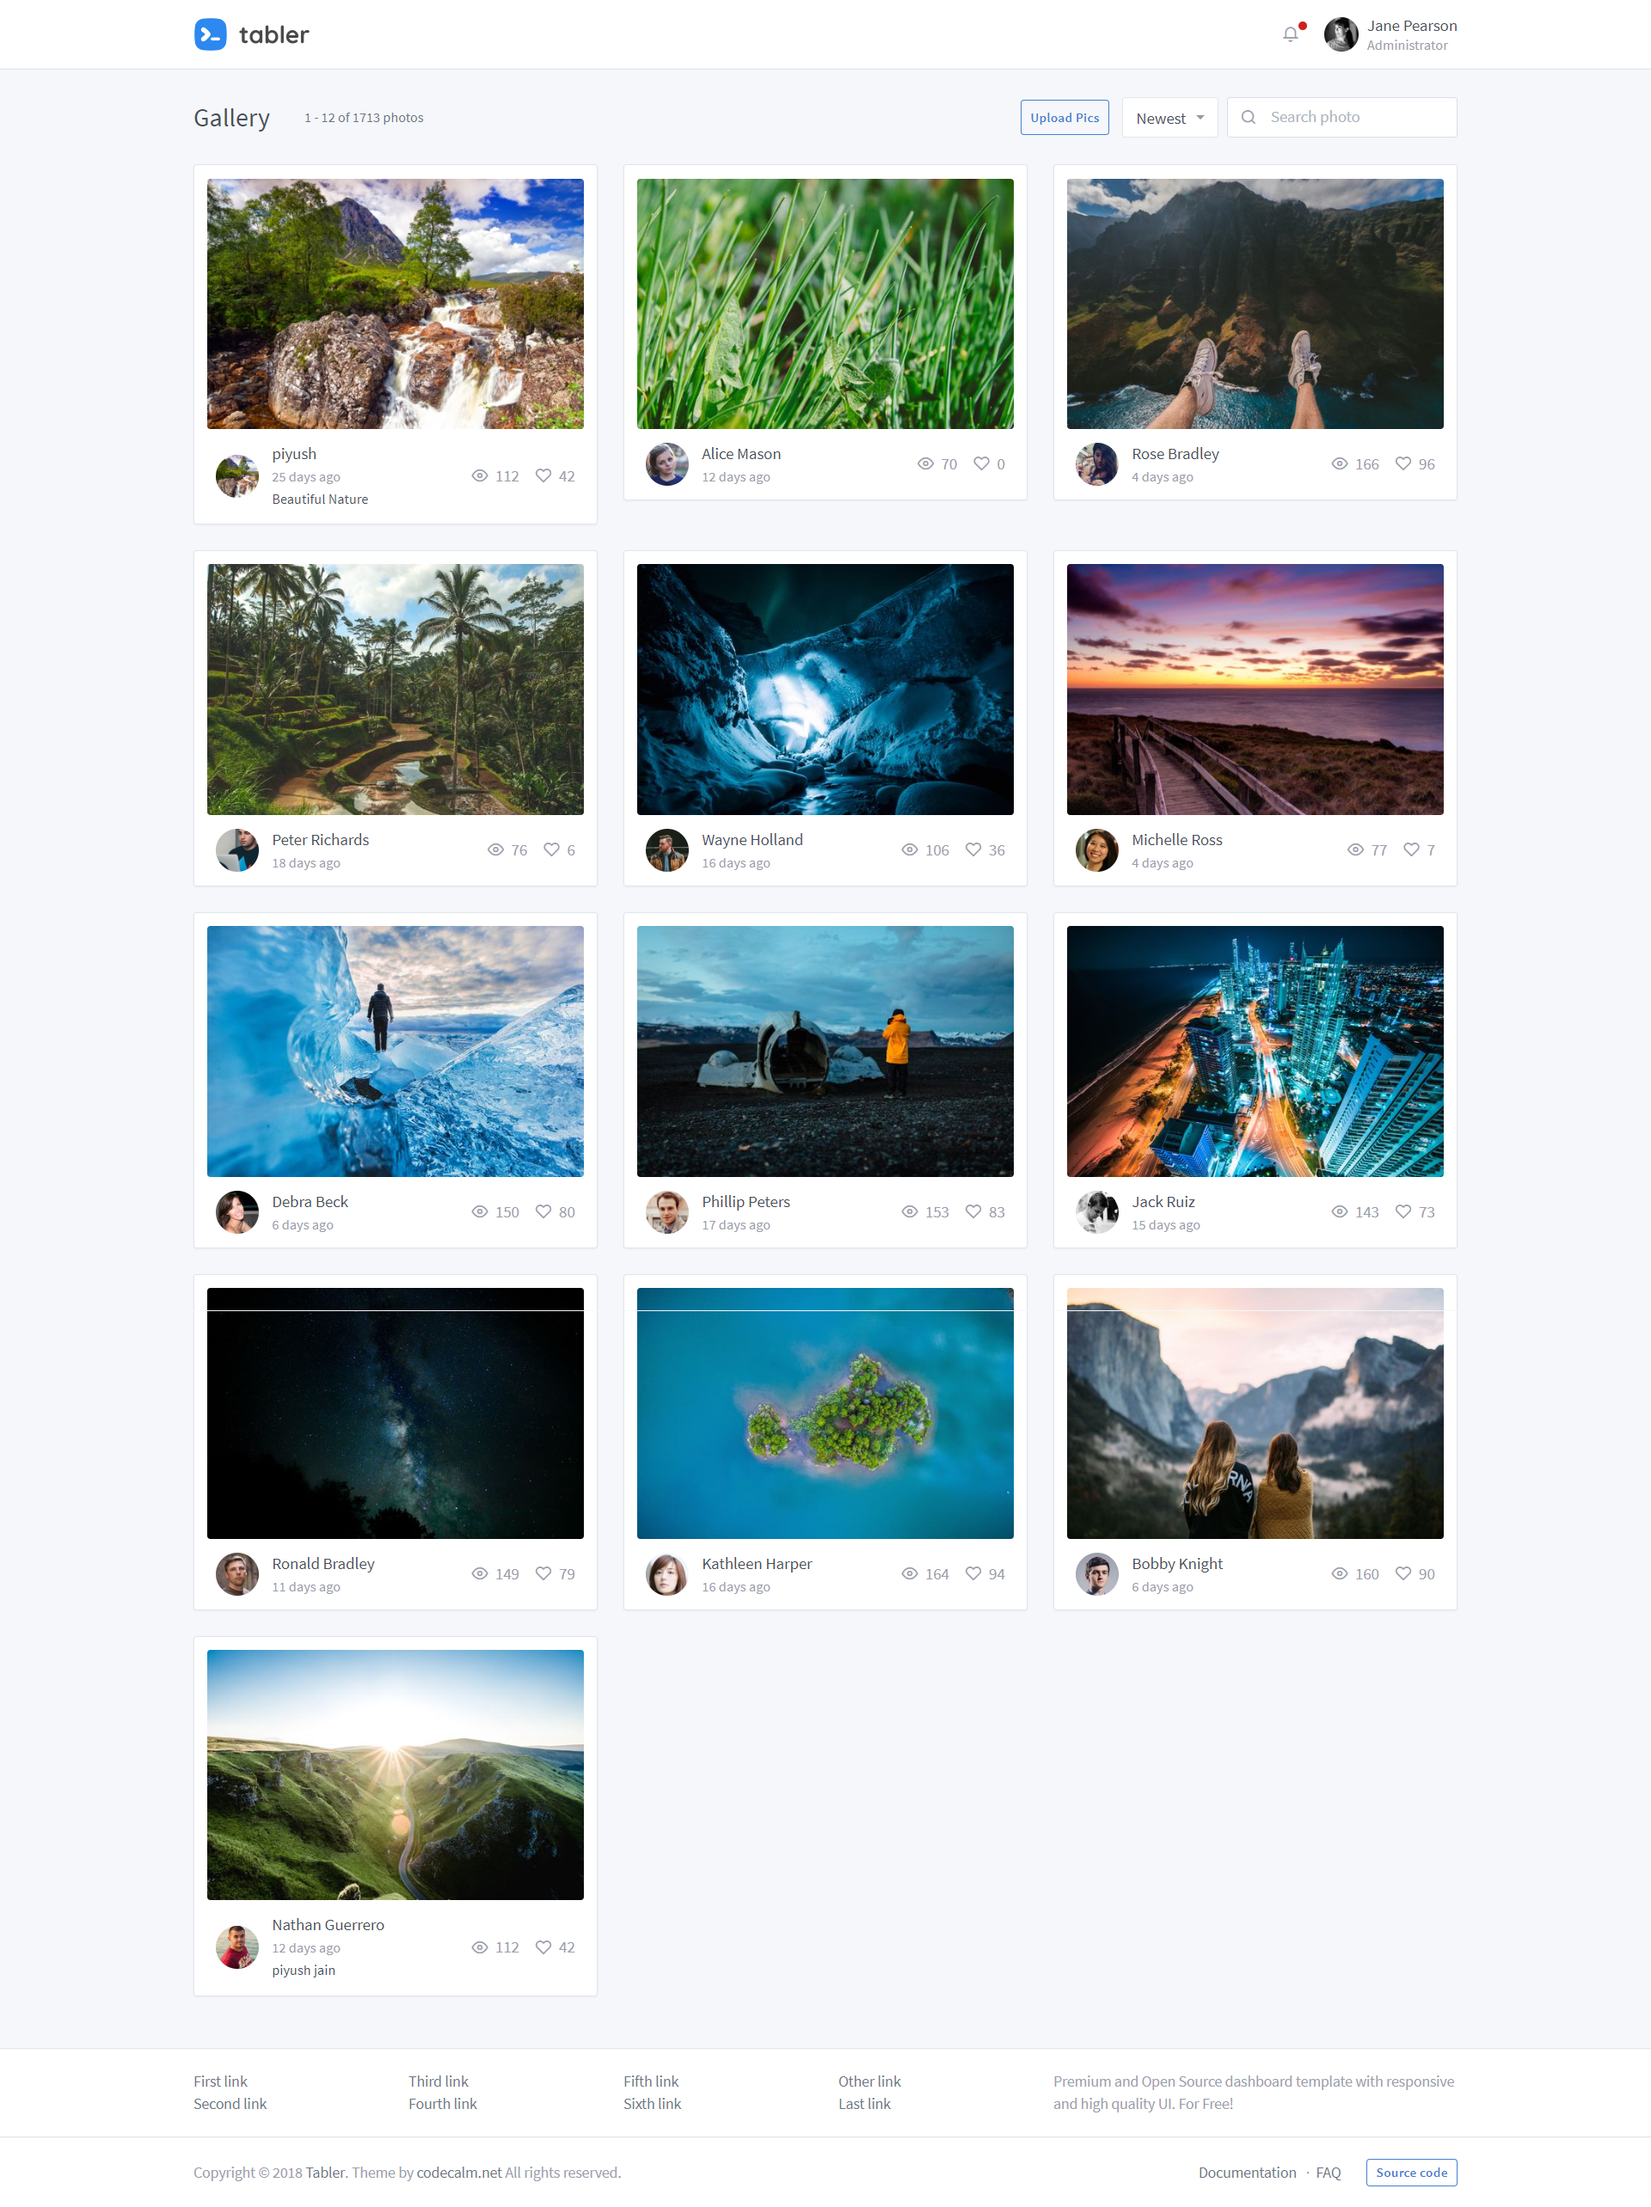
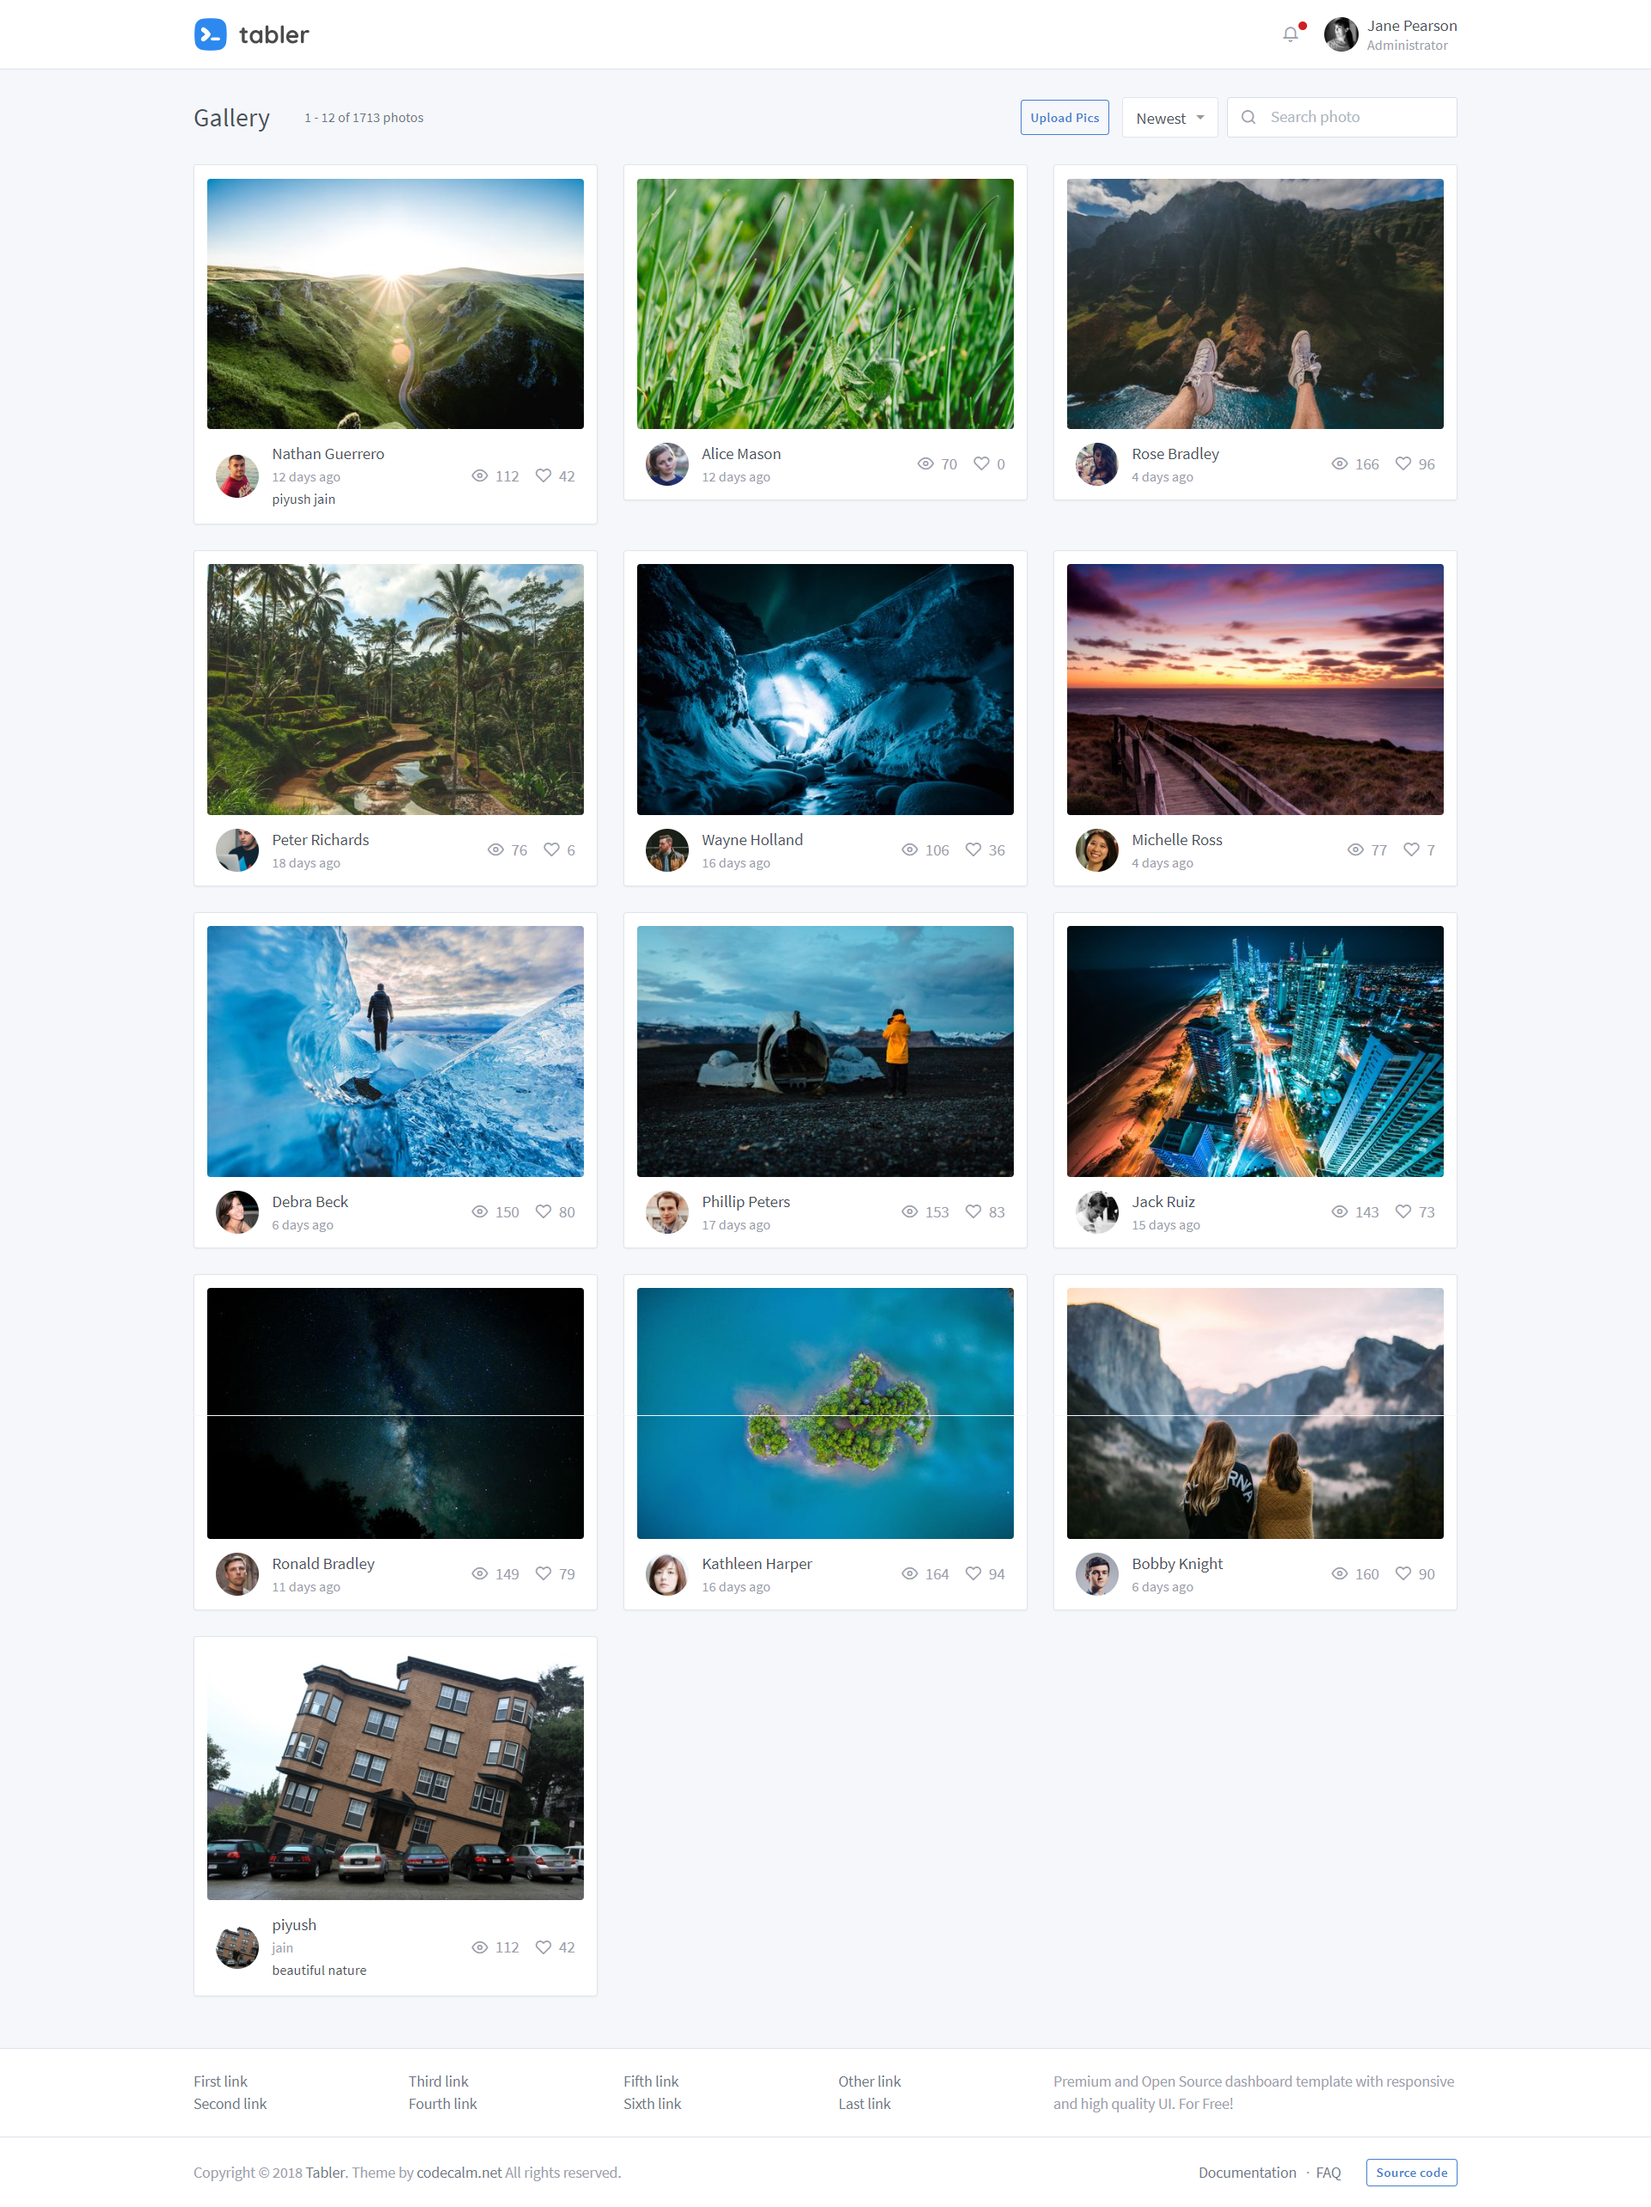
second commit

Changed region(s): [[0.125, 0.0623, 0.375, 0.2493], [0.125, 0.748, 0.375, 0.9038]]

diff --git a/dist/gal.js b/dist/gal.js
@@ -1,0 +1,18 @@
+
+function btn(){
+    
+        
+        var a=$("#p11").clone();
+        var p=prompt("Enter Image Link");
+        $("#t",a).attr("src",p);
+        var p1=prompt("Enter Name");
+        $("#t1",a).text(p1);
+        var p2=prompt("Enter Description");       
+        $("#t2",a).text(p2);
+        var p3=prompt("Enter The Person Image Link");
+        $("#gl",a).css("background-image","url("+p3+")");
+        var p4=prompt("Enter Caption");
+        $("#cap",a).text(p4); 
+        $("#rr").append(a);
+    
+}
